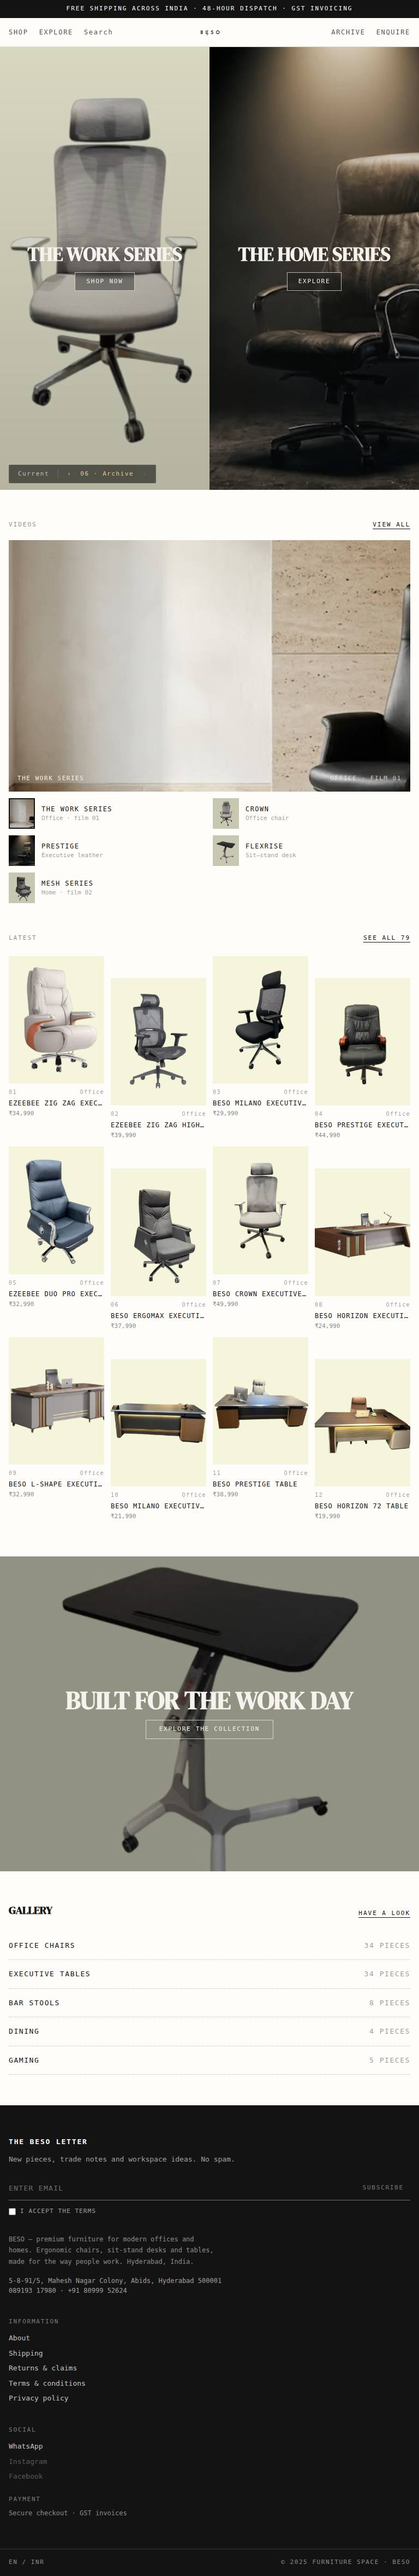
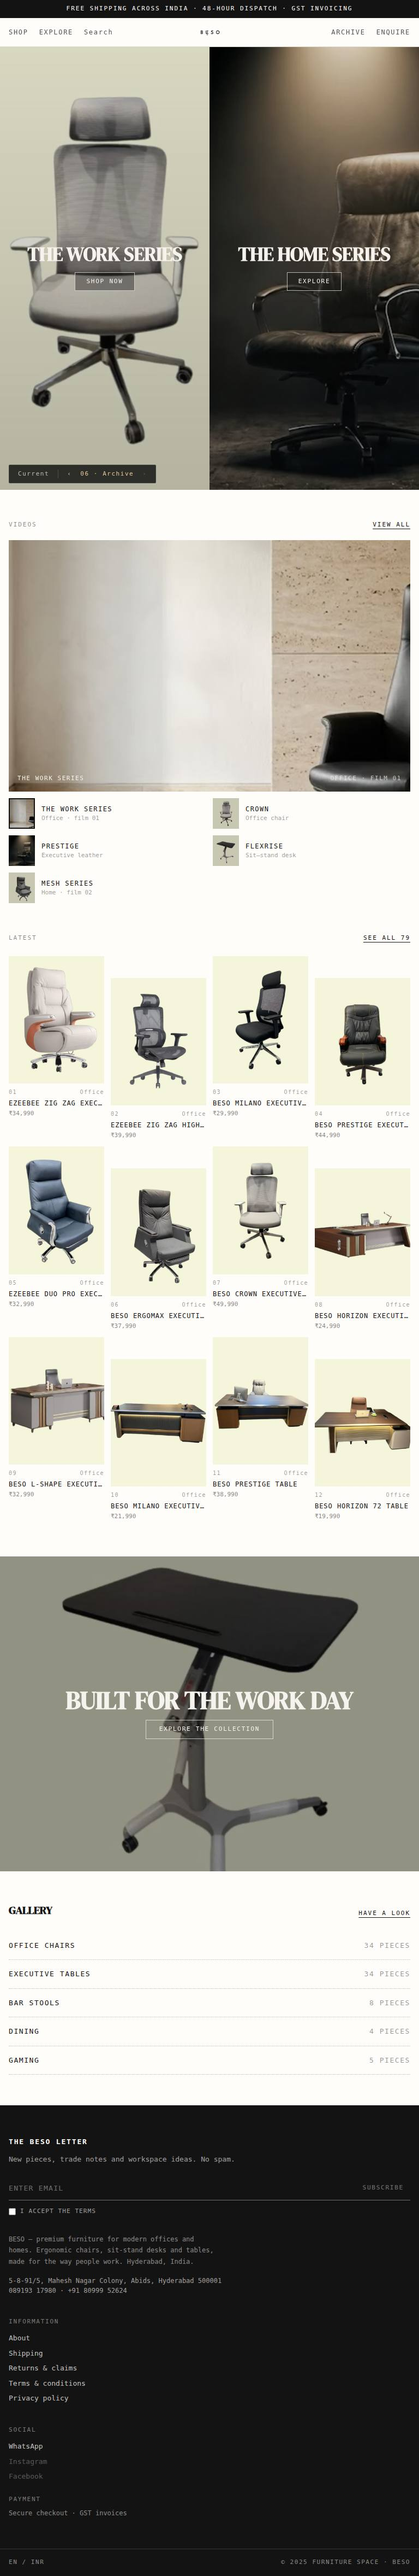
fix(shake): remove backdrop-filter blur (sticky/fixed headers, switcher) + trim reveal blur
Backdrop-filter on fixed/sticky headers shimmers/shakes while scrolling (fixed
region repaint). Removed it from the glass header, all concept headers, the
switcher rail and the home CTA; bumped header opacity to compensate. Reveal
animation no longer animates filter/scale (was repainting). Concept/Archive:
catalogue cards now fade-up on scroll (reference-style reveal + parallax).

Changed region(s): [[0.0312, 0.156, 0.375, 0.1872], [0.4062, 0.0936, 0.4375, 0.1248]]

diff --git a/src/components/designs/d06-archive/index.tsx b/src/components/designs/d06-archive/index.tsx
@@ -80,7 +80,7 @@ export default function DesignArchive() {
       </div>
 
       {/* ── Nav — 3 zones ──────────────────────────────────────────────── */}
-      <header className="sticky top-0 z-40 border-b border-[#141313]/15 bg-[#FFFDFA]/90 backdrop-blur-md">
+      <header className="sticky top-0 z-40 border-b border-[#141313]/15 bg-[#FFFDFA]/95">
         <div className="grid grid-cols-3 items-center px-4 py-4 lg:px-6">
           <nav className="flex items-center gap-5 text-[12px] uppercase tracking-[0.14em] text-[#141313]/75">
             <Link href="/products" className="transition-colors hover:text-[#141313]">Shop</Link>
@@ -116,7 +116,7 @@ export default function DesignArchive() {
             <div className="absolute inset-0" style={{background: `linear-gradient(180deg, rgba(10,10,10,0.12), ${h.tint})`}} />
             <div className="absolute inset-0 flex flex-col items-center justify-center gap-4 px-6 text-center">
               <h1 className="text-[clamp(30px,4.6vw,58px)] font-bold uppercase leading-[0.92] tracking-[-0.01em] text-[#F6F3EE]">{h.title}</h1>
-              <Link href={h.href} className="border border-[#F6F3EE]/70 bg-[#141313]/40 px-5 py-2 text-[11px] uppercase tracking-[0.16em] text-[#F6F3EE] backdrop-blur-sm transition-colors hover:bg-[#F6F3EE] hover:text-[#141313]">{h.cta}</Link>
+              <Link href={h.href} className="border border-[#F6F3EE]/70 bg-[#141313]/40 px-5 py-2 text-[11px] uppercase tracking-[0.16em] text-[#F6F3EE] transition-colors hover:bg-[#F6F3EE] hover:text-[#141313]">{h.cta}</Link>
             </div>
           </div>
         ))}
@@ -164,17 +164,19 @@ export default function DesignArchive() {
         </div>
         <div className="mt-6 grid grid-cols-2 gap-3 md:grid-cols-4">
           {catalog.map((p, i) => (
-            <Link key={p.slug} href={`/products/${p.slug}`} className={`group ${i % 2 === 1 ? 'md:mt-10' : ''}`}>
-              <div className="overflow-hidden bg-[#F5F5DB]">
-                <img src={pimg(p)} alt={p.name} loading="lazy" className="aspect-[3/4] w-full object-cover transition-transform duration-[900ms] ease-[cubic-bezier(0.22,1,0.36,1)] group-hover:scale-[1.05]" />
-              </div>
-              <div className="mt-2 flex items-baseline justify-between">
-                <span className="text-[10px] tracking-[0.14em] text-[#141313]/45">{String(i + 1).padStart(2, '0')}</span>
-                <span className="text-[10px] tracking-[0.14em] text-[#141313]/45">{p.category === 'home' ? 'Home' : 'Office'}</span>
-              </div>
-              <div className="mt-1 truncate text-[12px] uppercase tracking-[0.08em]">{p.name}</div>
-              <div className="mt-0.5 text-[11px] text-[#141313]/55">{money(p.price)}</div>
-            </Link>
+            <Reveal key={p.slug} delay={(i % 4) * 60} className={i % 2 === 1 ? 'md:mt-10' : ''}>
+              <Link href={`/products/${p.slug}`} className="group block">
+                <div className="overflow-hidden bg-[#F5F5DB]">
+                  <img src={pimg(p)} alt={p.name} loading="lazy" className="aspect-[3/4] w-full object-cover transition-transform duration-[900ms] ease-[cubic-bezier(0.22,1,0.36,1)] group-hover:scale-[1.05]" />
+                </div>
+                <div className="mt-2 flex items-baseline justify-between">
+                  <span className="text-[10px] tracking-[0.14em] text-[#141313]/45">{String(i + 1).padStart(2, '0')}</span>
+                  <span className="text-[10px] tracking-[0.14em] text-[#141313]/45">{p.category === 'home' ? 'Home' : 'Office'}</span>
+                </div>
+                <div className="mt-1 truncate text-[12px] uppercase tracking-[0.08em]">{p.name}</div>
+                <div className="mt-0.5 text-[11px] text-[#141313]/55">{money(p.price)}</div>
+              </Link>
+            </Reveal>
           ))}
           {catalog.length === 0 && <p className="col-span-full py-8 text-[13px] uppercase tracking-[0.12em] text-[#141313]/50">No pieces match “{query}”.</p>}
         </div>

diff --git a/src/app/globals.css b/src/app/globals.css
@@ -514,34 +514,28 @@ html.theme-switching *::after {
     stroke 0.25s ease !important;
 }
 
-/* Hidden until in-viewport, then revealed by the `Reveal` component
-   (adds the `is-visible` class via IntersectionObserver). Soft 3D rise +
-   de-blur for a tactile, premium entrance. */
+/* Hidden until in-viewport, then revealed by the `Reveal` component.
+   Opacity + translate only — no filter/scale, which repainted large layers and
+   caused a scroll shimmer/shake on some displays. */
 .reveal {
   opacity: 0;
-  transform: translateY(26px) scale(0.992);
-  filter: blur(3px);
+  transform: translateY(24px);
   transition:
     opacity 0.8s cubic-bezier(0.16, 1, 0.3, 1),
-    transform 0.8s cubic-bezier(0.16, 1, 0.3, 1),
-    filter 0.8s cubic-bezier(0.16, 1, 0.3, 1);
-  will-change: opacity, transform, filter;
+    transform 0.8s cubic-bezier(0.16, 1, 0.3, 1);
 }
 .reveal.is-visible {
   opacity: 1;
-  transform: translateY(0) scale(1);
-  filter: blur(0);
+  transform: none;
 }
 /* Stagger helper: child reveals offset by index via inline `--d` delay. */
 .reveal-stagger > *,
 .stagger > * {
   opacity: 0;
-  transform: translateY(22px) scale(0.992);
-  filter: blur(2px);
+  transform: translateY(20px);
   transition:
     opacity 0.7s cubic-bezier(0.16, 1, 0.3, 1),
-    transform 0.7s cubic-bezier(0.16, 1, 0.3, 1),
-    filter 0.7s cubic-bezier(0.16, 1, 0.3, 1);
+    transform 0.7s cubic-bezier(0.16, 1, 0.3, 1);
   transition-delay: var(--d, 0s);
 }
 .is-visible.reveal-stagger > *,
@@ -549,8 +543,7 @@ html.theme-switching *::after {
 .reveal-stagger.is-visible > *,
 .stagger.is-visible > * {
   opacity: 1;
-  transform: translateY(0) scale(1);
-  filter: blur(0);
+  transform: none;
 }
 
 @media (prefers-reduced-motion: reduce) {
@@ -616,9 +609,8 @@ section[id] {
 
 /* ─── Glass Header ───────────────────────────────────────────────────────── */
 .glass-header {
-  background: rgb(248 246 240 / 0.75);
-  backdrop-filter: blur(16px) saturate(180%);
-  -webkit-backdrop-filter: blur(16px) saturate(180%);
+  background: rgb(248 246 240 / 0.94);
+  /* no backdrop-filter: the blurred fixed region shimmered while scrolling */
   border: 1px solid rgb(255 255 255 / 0.6);
   box-shadow: 0 8px 32px rgb(44 35 25 / 0.06);
   transition: background-color 0.3s ease, box-shadow 0.3s ease;

diff --git a/src/components/designs/current-home.tsx b/src/components/designs/current-home.tsx
@@ -121,7 +121,7 @@ export default function HomePage() {
               href="https://wa.me/918099952624?text=Hi%20BESO!%20I%27m%20interested%20in%20a%20workspace%20consultation."
               target="_blank"
               rel="noopener noreferrer"
-              className="border border-ink/20 text-ink/80 px-8 py-4 rounded-full text-xs uppercase tracking-widest font-semibold min-w-[200px] inline-flex items-center justify-center gap-2 bg-white/50 backdrop-blur-md transition-all hover:bg-white/80 hover:border-ink/35 hover:text-ink"
+              className="border border-ink/20 text-ink/80 px-8 py-4 rounded-full text-xs uppercase tracking-widest font-semibold min-w-[200px] inline-flex items-center justify-center gap-2 bg-white/80 transition-all hover:bg-white/80 hover:border-ink/35 hover:text-ink"
             >
               <svg viewBox="0 0 24 24" className="w-4 h-4 fill-current shrink-0">
                 <path d="M17.472 14.382c-.297-.149-1.758-.867-2.03-.967-.273-.099-.471-.148-.67.15-.197.297-.767.966-.94 1.164-.173.199-.347.223-.644.075-.297-.15-1.255-.463-2.39-1.475-.883-.788-1.48-1.761-1.653-2.059-.173-.297-.018-.458.13-.606.134-.133.298-.347.446-.52.149-.174.198-.298.298-.497.099-.198.05-.371-.025-.52-.075-.149-.669-1.612-.916-2.207-.242-.579-.487-.5-.669-.51-.173-.008-.371-.01-.57-.01-.198 0-.52.074-.792.372-.272.297-1.04 1.016-1.04 2.479 0 1.462 1.065 2.875 1.213 3.074.149.198 2.096 3.2 5.077 4.487.709.306 1.262.489 1.694.625.712.227 1.36.195 1.871.118.571-.085 1.758-.719 2.006-1.413.248-.694.248-1.289.173-1.413-.074-.124-.272-.198-.57-.347m-5.421 7.403h-.004a9.87 9.87 0 01-5.031-1.378l-.361-.214-3.741.982.998-3.648-.235-.374a9.86 9.86 0 01-1.51-5.26c.001-5.45 4.436-9.884 9.888-9.884 2.64 0 5.122 1.03 6.988 2.898a9.825 9.825 0 012.893 6.994c-.003 5.45-4.437 9.884-9.885 9.884m8.413-18.297A11.815 11.815 0 0012.05 0C5.495 0 .16 5.335.157 11.892c0 2.096.547 4.142 1.588 5.945L.057 24l6.305-1.654a11.882 11.882 0 005.683 1.448h.005c6.554 0 11.89-5.335 11.893-11.893a11.821 11.821 0 00-3.48-8.413z" />

diff --git a/src/components/designs/DesignSwitcher.tsx b/src/components/designs/DesignSwitcher.tsx
@@ -37,7 +37,7 @@ export function DesignSwitcher({current, total, name, go}: Props) {
 
   return (
     <div className="fixed bottom-4 left-4 z-[80] print:hidden" style={{fontFamily: 'ui-monospace, SFMono-Regular, Menlo, monospace'}}>
-      <div className="relative flex items-center gap-1 rounded-sm border border-white/10 bg-black/55 px-2 py-1 text-[11px] uppercase tracking-[0.14em] text-[#F6F1E7]/70 backdrop-blur-md">
+      <div className="relative flex items-center gap-1 rounded-sm border border-white/10 bg-black/75 px-2 py-1 text-[11px] uppercase tracking-[0.14em] text-[#F6F1E7]/70">
         <button onClick={() => go(0)} aria-current={current === 0} className={`${btn} ${current === 0 ? 'text-white' : ''}`}>
           Current
         </button>
@@ -49,7 +49,7 @@ export function DesignSwitcher({current, total, name, go}: Props) {
         <button onClick={() => go(Math.min(total, current + 1))} disabled={current >= total} aria-label="Next design" className={btn}>›</button>
 
         {open && (
-          <div className="absolute bottom-full left-0 mb-2 w-[260px] rounded-md border border-white/10 bg-black/90 p-1.5 backdrop-blur-xl">
+          <div className="absolute bottom-full left-0 mb-2 w-[260px] rounded-md border border-white/10 bg-black/90 p-1.5">
             <button
               onClick={() => { go(0); setOpen(false); }}
               className={`flex w-full items-center justify-between rounded px-3 py-2 text-left transition-colors ${current === 0 ? 'bg-white/10' : 'hover:bg-white/5'}`}

diff --git a/src/components/designs/d04-twomodes/index.tsx b/src/components/designs/d04-twomodes/index.tsx
@@ -171,7 +171,7 @@ export default function DesignTwoModes() {
   return (
     <div className="text-[#232220] transition-colors duration-700" style={{fontFamily: BODY, background: M.base}}>
       {/* ── Header with mode switch ────────────────────────────────────── */}
-      <header className="sticky top-0 z-40 border-b border-[#232220]/10 backdrop-blur-md" style={{background: `${M.base}D9`}}>
+      <header className="sticky top-0 z-40 border-b border-[#232220]/10" style={{background: `${M.base}E6`}}>
         <div className="mx-auto flex max-w-[1280px] items-center justify-between gap-4 px-5 py-4 lg:px-10">
           <Link href="/" className="flex items-center gap-3">
             <img src="/assets/images/beso-logo-transparent.png" alt="BESO" className="h-6 w-auto" style={{filter: 'brightness(0)'}} />

diff --git a/src/components/designs/d05-atelier-pro/index.tsx b/src/components/designs/d05-atelier-pro/index.tsx
@@ -101,7 +101,7 @@ export default function DesignAtelierPro() {
       </div>
 
       {/* ── Header + mega-menu ─────────────────────────────────────────── */}
-      <header className="sticky top-0 z-40 border-b border-[#141414]/12 bg-[#FAFAFA]/90 backdrop-blur-md" onMouseLeave={() => setMenuOpen(false)}>
+      <header className="sticky top-0 z-40 border-b border-[#141414]/12 bg-[#FAFAFA]/95" onMouseLeave={() => setMenuOpen(false)}>
         <div className="mx-auto flex max-w-[1320px] items-center justify-between px-6 py-5 lg:px-10">
           <Link href="/" className="flex items-center">
             <img src="/assets/images/beso-logo-transparent.png" alt="BESO" className="h-5 w-auto" style={{filter: 'brightness(0)'}} />
